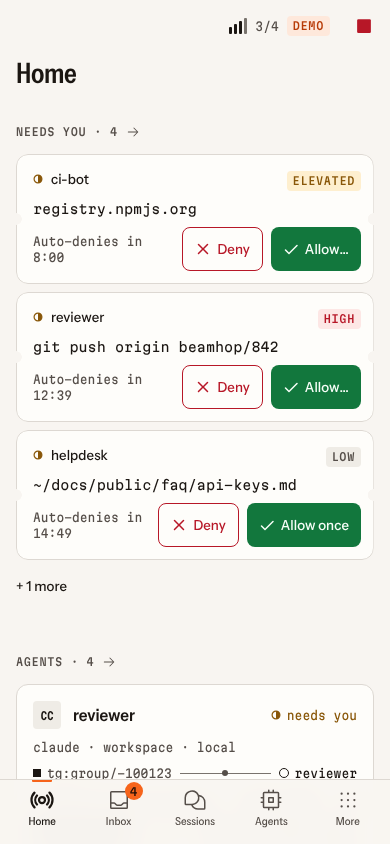
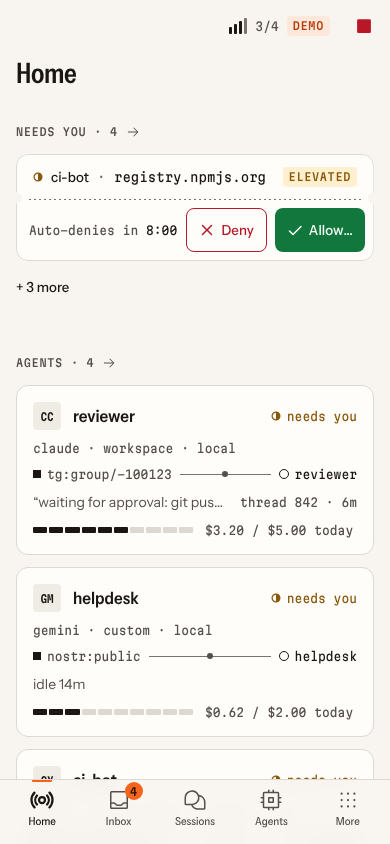
pwa: README, screenshots for review, home polish

diff --git a/apps/pwa/src/screens/home/HomeScreen.tsx b/apps/pwa/src/screens/home/HomeScreen.tsx
@@ -190,7 +190,11 @@ const AgentCard = ({
   const last = [...(events.data?.events ?? [])]
     .reverse()
     .find((e) => e.kind === 'progress' || e.kind === 'assistant' || e.kind === 'permission');
-  const lastText = last?.kind === 'permission' ? `waiting for approval: ${last.text ?? ''}` : last?.text;
+  const lastText = !live
+    ? undefined
+    : last?.kind === 'permission'
+      ? `waiting for approval: ${last.text ?? ''}`
+      : last?.text;
   const membership = session
     ? `${session.channel}:${session.conversationId}`
     : a.config.memberships[0]?.target;
@@ -419,7 +423,7 @@ export const HomeScreen = () => {
             <Eyebrow id="home-agents" count={cards.length} href="/agents">
               Agents
             </Eyebrow>
-            <ul className="grid grid-cols-1 gap-3 medium:grid-cols-2 expanded:grid-cols-[repeat(auto-fill,minmax(300px,1fr))]">
+            <ul className="grid grid-cols-1 gap-3 medium:grid-cols-2 expanded:grid-cols-[repeat(auto-fill,minmax(268px,1fr))]">
               {cards.map((c) => (
                 <li key={c.a.config.name} className="min-w-0">
                   <AgentCard a={c.a} lamp={c.lamp} session={c.session} channels={channels.data?.channels} />

diff --git a/apps/pwa/e2e/screenshots.spec.ts b/apps/pwa/e2e/screenshots.spec.ts
@@ -44,7 +44,7 @@ test('screenshot panic band', async ({ page }, info) => {
   });
   await page.waitForTimeout(800);
   await page.screenshot({ path: `screenshots/${info.project.name}/home-panic.png` });
-  await page.goto('/panic');
+  await page.getByRole('link', { name: 'Review & resume' }).first().click();
   await page.waitForTimeout(800);
   await page.screenshot({ path: `screenshots/${info.project.name}/panic-resume.png` });
 });

diff --git a/apps/pwa/README.md b/apps/pwa/README.md
@@ -1,0 +1,94 @@
+# @beamhop/pwa
+
+The beamhop control panel. Design direction **CARRIER** (`docs/design/DESIGN.md`) is binding;
+layouts in `docs/design/SCREENS.md`, flows in `docs/design/JOURNEYS.md`.
+
+Stack: React 19 · TypeScript · Vite 7 · React Aria Components · Tailwind v4 · Motion · TanStack Router (code-based) +
+Query · vite-plugin-pwa (Workbox) · Fontsource (Instrument Sans, Martian Mono, Doto) · Phosphor icons.
+
+```bash
+pnpm --filter @beamhop/pwa dev          # http://127.0.0.1:5173/?mock=1
+pnpm --filter @beamhop/pwa build        # → apps/pwa/dist (served by beamhopd)
+pnpm --filter @beamhop/pwa typecheck
+pnpm --filter @beamhop/pwa test         # vitest (jsdom)
+pnpm --filter @beamhop/pwa test:e2e     # build first; Playwright: smoke + axe on every route, mobile + desktop
+pnpm --filter @beamhop/pwa screenshots  # every route → screenshots/{mobile,desktop}/*.png
+pnpm --filter @beamhop/pwa icons        # regenerate public/icons from scripts/gen-icons.mjs
+```
+
+## Structure
+
+```
+src/
+  main.tsx            fonts, QueryClient, runtime, router, MotionConfig
+  Root.tsx            RAC RouterProvider + ToastProvider + PanicProvider + AppShell
+  router.tsx          every route in SCREENS §0.1 (lazy screens). Add routes here + e2e/paths.ts
+  api/                data layer (see below)
+  shell/              AppShell, TabBar, Sidebar, StatusStrip, Screen/SplitView, panic, connection, banners
+  screens/<name>/     ONE DIRECTORY PER OWNER (placeholders with a TODO header)
+  ui/                 design system (barrel: ui/index.ts) + glyphs/
+  lib/                appearance (theme), haptics, format, live regions, media queries, useNow
+  i18n/               en.json + t() with ICU plurals
+  styles/tokens.css   VERBATIM copy of docs/design/tokens.css — keep in sync (cp after design changes)
+public/boot.js        sets data-theme/contrast/motion before paint (external: daemon CSP forbids inline JS)
+```
+
+## Data layer (`src/api`)
+
+- **Transport choice** (`connection.ts`): `#token=…` in the URL → saved to localStorage, stripped from the URL →
+  WebSocket to the local daemon (`location.origin`, or `?daemon=<url>`). `?mock=1` (sticky per tab) or no token →
+  in-browser **mock daemon**. `?still=1` freezes the mock's timers. `?mockFail=channel.list,agent.get` makes those
+  methods fail (error states). `?mock=0` forgets the sticky mock. Hosted/Nostr: interface only (`nostr.ts`).
+- **Hooks** (`hooks.ts`) — the only way screens talk to the daemon:
+
+  ```ts
+  const { data, isPending, error } = useApi('agent.list');
+  const q = useApi('session.events', { id, afterSeq: 0 });
+  const stop = useMutationApi('agent.stop');           // stop.mutate({ name: 'reviewer' })
+  const call = useCall();                              // imperative: await call('approval.undo', { id })
+  useServerEvent((e) => { if (e.type === 'session.event') … });
+  ```
+
+  Keys are `['bh', method, params]`. Mutations invalidate related reads (`keys.ts INVALIDATES`).
+  Pushed `ServerEvent`s patch caches **before** your listener runs (`events.ts`): agent/session/approval/channel
+  upserts, audit prepends, `panic` refetches everything. **Same `seq` on `session.event` = replace** (streaming text).
+- ⚠ If a component may unmount when its own mutation's event lands (a slip that disappears once decided), use
+  `mutateAsync().then(...)` — per-call `mutate(..., { onSuccess })` callbacks never fire after unmount.
+- **Mock** (`mock/`): `seed.ts` (4 agents on Claude Code / Codex / Gemini / OpenCode, Nostr+Telegram+Slack+Discord,
+  8 sessions, 4 pending approvals of every risk, 14 days of usage/audit, devices, schedules, deployments),
+  `daemon.ts` implements **every** method in `@beamhop/core` `methods` (params validated with the real zod schemas,
+  real error codes, 5 s undo window), `sim.ts` streams sessions, adds approvals, expires them, flickers relays.
+  Console: `__beamhop.mock.daemon.state`, `__beamhop.runtime.client.call('system.panic')`.
+
+## Adding / building a screen
+
+1. Own your directory under `src/screens/<name>/`. Keep the exported component names (router imports them lazily).
+2. Render into `<Screen title=… back=… actions=… slug=… crumbs=… pane=…>` (top bar, large title, banners, panes).
+   List/detail screens: `<SplitView list={…} hasDetail={useHasDetail('/route')}><Outlet/></SplitView>`.
+3. Use only `ui/` components and token utilities (`bg-surface`, `text-ink-2`, `type-meta`, `hatch`, …). No raw colours,
+   no shadows on resting cards, no new fonts. Exactly one primary button per view. Every gesture needs a visible button.
+4. States: `useDelayedLoading` + `Skeleton`, `EmptyState` (with `cli`), `ErrorState` (`details`, `onRetry`).
+5. Delete the `ScreenStub` once the real UI is in. Add new strings to `i18n/en.json`.
+6. Run `test:e2e` — axe (serious/critical) and the no-horizontal-scroll check run on every route.
+   New concrete routes go into `e2e/paths.ts`.
+
+Route `staticData`: `{ chrome: 'bare' }` (no shell), `{ hideTabBar: true }`, `{ hideInboxRail: true }`.
+
+## Components (`src/ui`, all shown at `/_kitchen`)
+
+Button (primary, secondary, quiet, allow, deny, destructive, destructive-outline; pending = hop bars), IconButton
+(44px + tooltip), LinkButton, TextLink · TextField, SecretField (show/hide, paste, format check, saved state),
+NumberField, SearchField · Select (popover desktop / sheet compact), Switch, Checkbox, RadioGroup/Radio (list or
+cards), SegmentedControl, Tabs · Sheet (bottom sheet with drag-to-dismiss + Close + Esc; dialog/pane ≥1024),
+ConfirmDialog · ToastProvider/useToast (one visible, undo with shrinking beam line, F6 focuses) · Card, TicketCard
+(transmission slip with perforation + notches), UntrustedQuote, SwipeAction (thresholds, haptics, A/D keys,
+`commit(dir)` for buttons) · StatusDot (shape+colour+word), SignalBars, SegmentedMeter, RouteLine (pulse, broken,
+blocked) · LetterTile, MetaLine (middle truncation), Readout (Doto), Eyebrow, Badge, CountBadge, RiskTag, Kbd ·
+EmptyState, Skeleton/SkeletonBlock, ErrorState, Banner · CodeBlock, DiffView, CliStrip, CopyButton · ChipGroup,
+ChipInput (host/wildcard/URL parsing) · PathPicker (ComboBox + Browse sheet) · Stepper (horizontal/vertical) ·
+QrCode (SVG) · Sparkline, BarChart (stacked, keyboard, legend-as-table, table view) · glyphs: Lamp, HopMeter, Gate,
+Perforation, Hatch, CarrierMark, BeamGlyph, SlipGlyph · `motion.ts` springs + `useReduced()`.
+
+Theme: `lib/appearance.ts` (System/Paper/Night shift, contrast, motion, haptics; persisted `bh.appearance`),
+UI in Settings → Appearance and the kitchen toolbar. `prefers-reduced-motion` and the in-app setting are honoured
+by CSS (`data-motion`), `MotionConfig` and components that animate meaning (SwipeAction, RouteLine, Sheet).
